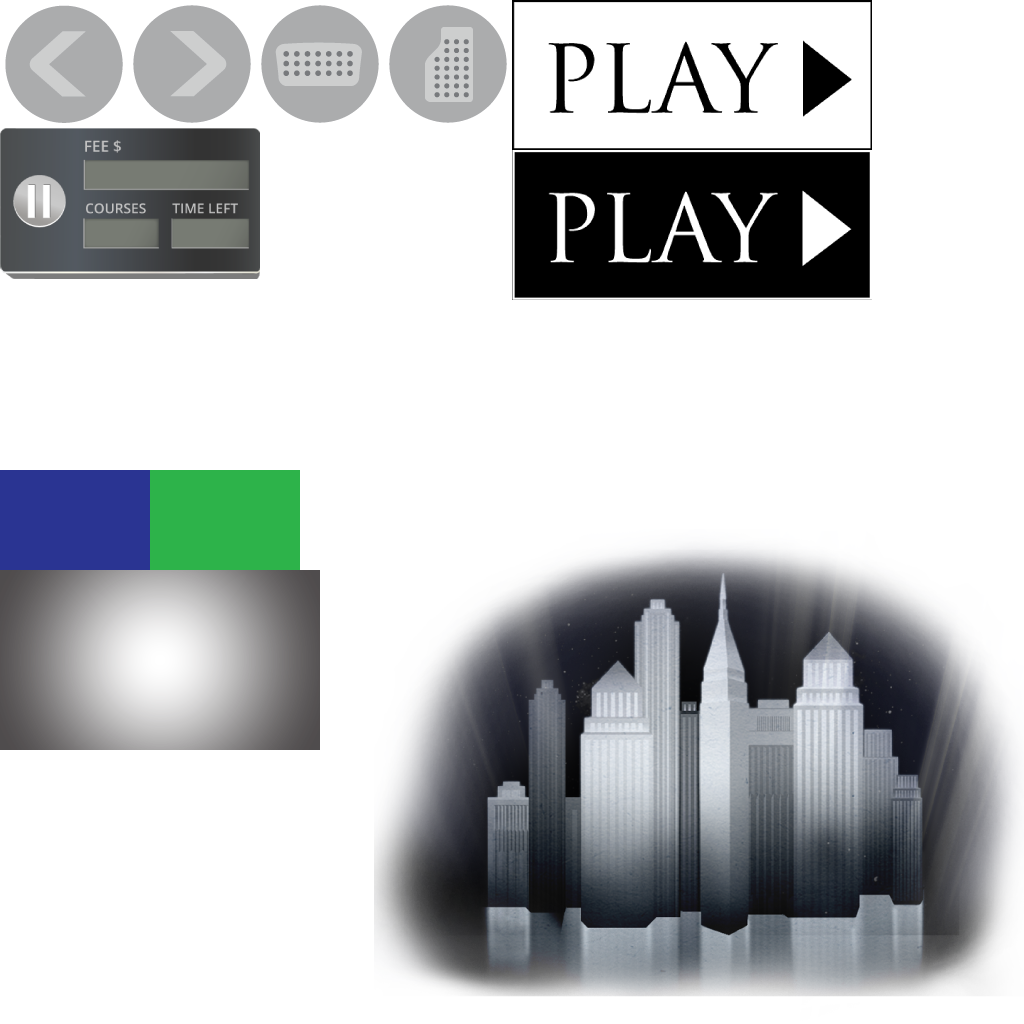
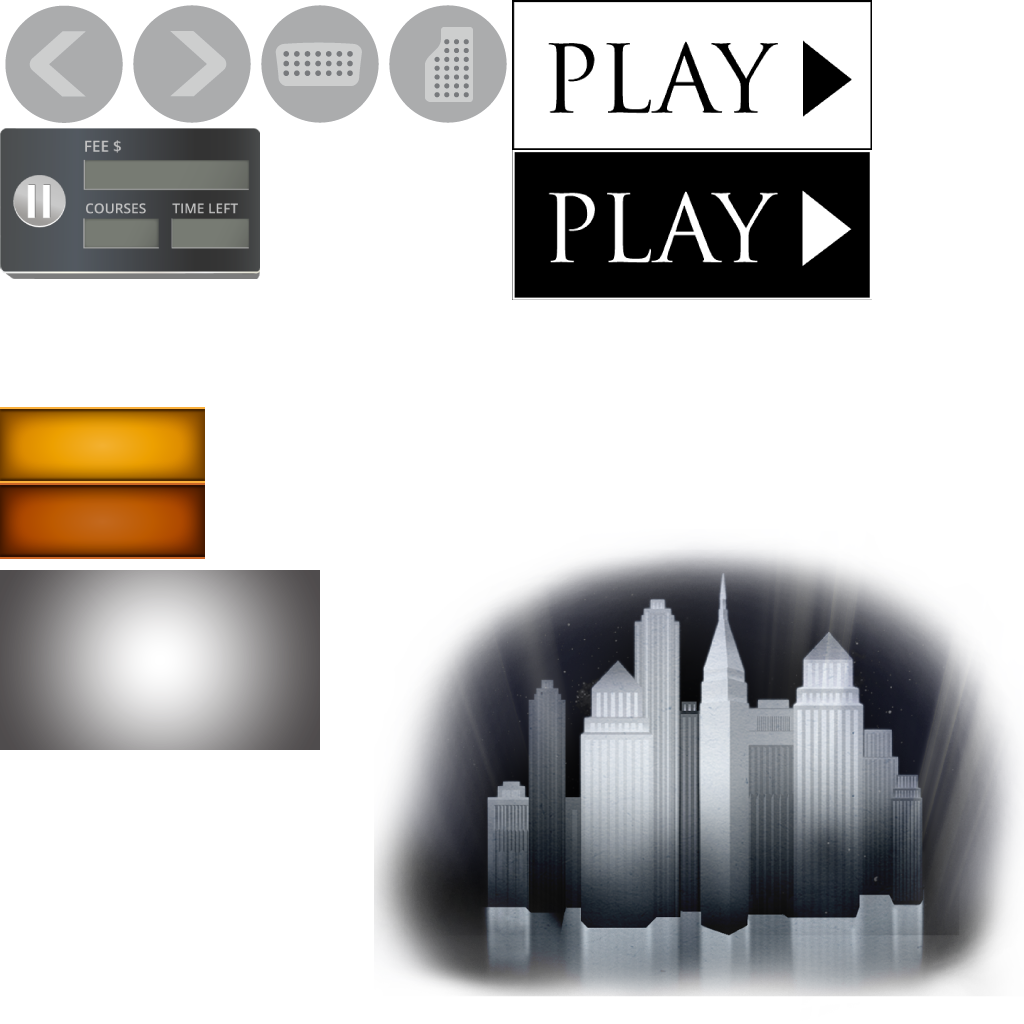
nowy ekran podsumowania i pauzy

Changed region(s): [[0.0, 0.375, 0.3125, 0.5625]]

diff --git a/Bunnies/Control.cpp b/Bunnies/Control.cpp
@@ -100,6 +100,8 @@ void Control::SetDefaults()
 	m_marginRight = 0;
 	m_marginTop = 0;
 	m_marginBottom = 0;
+
+	m_tmpFill = "";
 }
 
 Control *Control::GetParent()
@@ -280,6 +282,39 @@ void Control::Update(float time, float ms)
 	OnUpdate(time, ms);
 
 	sm::Vec2 parentSize = GetParentSize();
+
+	if (m_tmpFill == "fit")
+	{
+		float controlAspect = (float)width / (float)height;
+		float parentAspect = parentSize.x / parentSize.y;
+
+		if (controlAspect > parentAspect)
+		{
+			width = parentSize.x;
+			height = (int)(float)width / controlAspect;
+		}
+		else
+		{
+			height = parentSize.y;
+			width = (int)(float)height * controlAspect;
+		}
+	}
+	else if (m_tmpFill == "wypelnij")
+	{
+		float controlAspect = (float)width / (float)height;
+		float parentAspect = parentSize.x / parentSize.y;
+
+		if (controlAspect > parentAspect)
+		{
+			width = parentSize.x;
+			height = (int)(float)width / controlAspect;
+		}
+		else
+		{
+			width = parentSize.x;
+			height = (int)(float)width / controlAspect;
+		}
+	}
 
 	if (m_fill)
 	{

diff --git a/Bunnies/GameController.cpp b/Bunnies/GameController.cpp
@@ -69,8 +69,6 @@ bool GameController::InitializeGraphics(const std::string &basePath)
 	InterfaceProvider::m_graphicsEngine = m_graphicsEngine;
 	InterfaceProvider::m_spriteBatch = spriteBatch;
 	InterfaceProvider::m_spritesMap = spritesMap;
-	InterfaceProvider::m_fonts["komika_title_32"] = FontRenderer::LoadFromFile((basePath + "data/fonts/komika_title_32.xml").c_str(), spriteBatch);
-	InterfaceProvider::m_fonts["digital_bold_36"] = FontRenderer::LoadFromFile((basePath + "data/fonts/digital_bold_36.xml").c_str(), spriteBatch);
 	InterfaceProvider::m_fonts["digital_bold_24"] = FontRenderer::LoadFromFile((basePath + "data/fonts/digital_bold_24.xml").c_str(), spriteBatch);
 	InterfaceProvider::m_fonts["fenix_18"] = FontRenderer::LoadFromFile((basePath + "data/fonts/fenix_18.xml").c_str(), spriteBatch);
 	InterfaceProvider::m_fonts["fenix_26"] = FontRenderer::LoadFromFile((basePath + "data/fonts/fenix_26.xml").c_str(), spriteBatch);

diff --git a/Bunnies/Inflater.cpp b/Bunnies/Inflater.cpp
@@ -80,6 +80,8 @@ void Inflater::LoadLayout(XMLNode *node, Control *control)
 		control->SetMarginBottom(node->GetAttribAsInt32("margin_bottom"));
 	if (node->HasAttrib("margin_top"))
 		control->SetMarginTop(node->GetAttribAsInt32("margin_top"));
+	if (node->HasAttrib("tmp_fill"))
+		control->m_tmpFill = node->GetAttribAsString("tmp_fill");
 }
 
 Control* Inflater::LoadImageControl(XMLNode *node, const std::string &name)

diff --git a/Bunnies/GameScreen.cpp b/Bunnies/GameScreen.cpp
@@ -60,7 +60,7 @@ GameScreen *GameScreen::GetInstance()
 
 bool GameScreen::Initialize()
 {
-	m_fontKomika = InterfaceProvider::GetFontRenderer("komika_title_32");
+	m_fontKomika = InterfaceProvider::GetFontRenderer("digital_bold_24");
 
 	Billboard::Initialize();
 

diff --git a/Bunnies/Control.h b/Bunnies/Control.h
@@ -56,6 +56,8 @@ protected:
 	virtual void OnUpdate(float time, float ms);
 	
 public:
+	std::string m_tmpFill;
+
 	static void SetSpriteBatch(SpriteBatch *spriteBatch);
 	
 	Control(const std::string &name);
